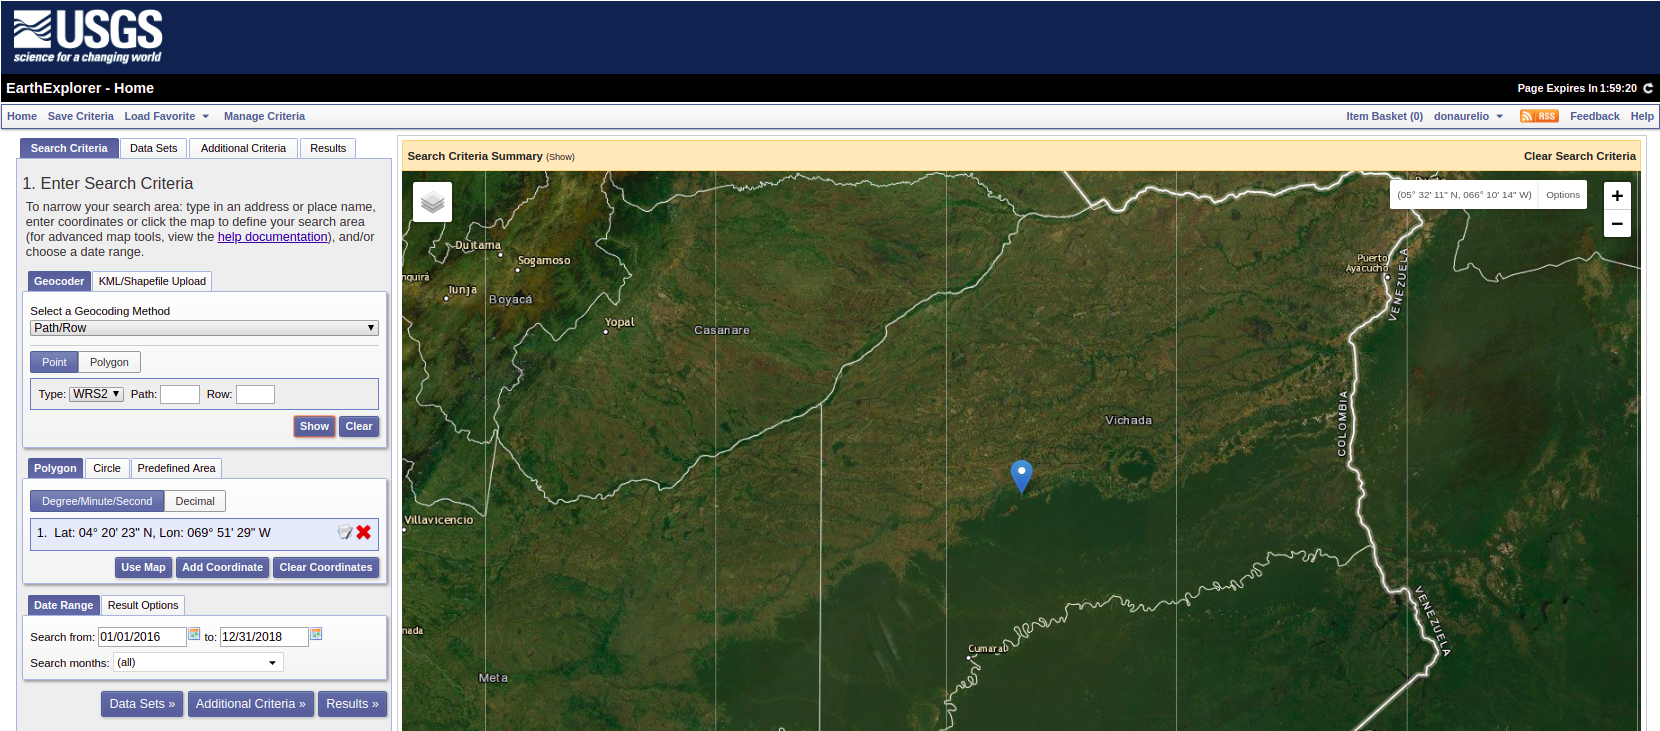
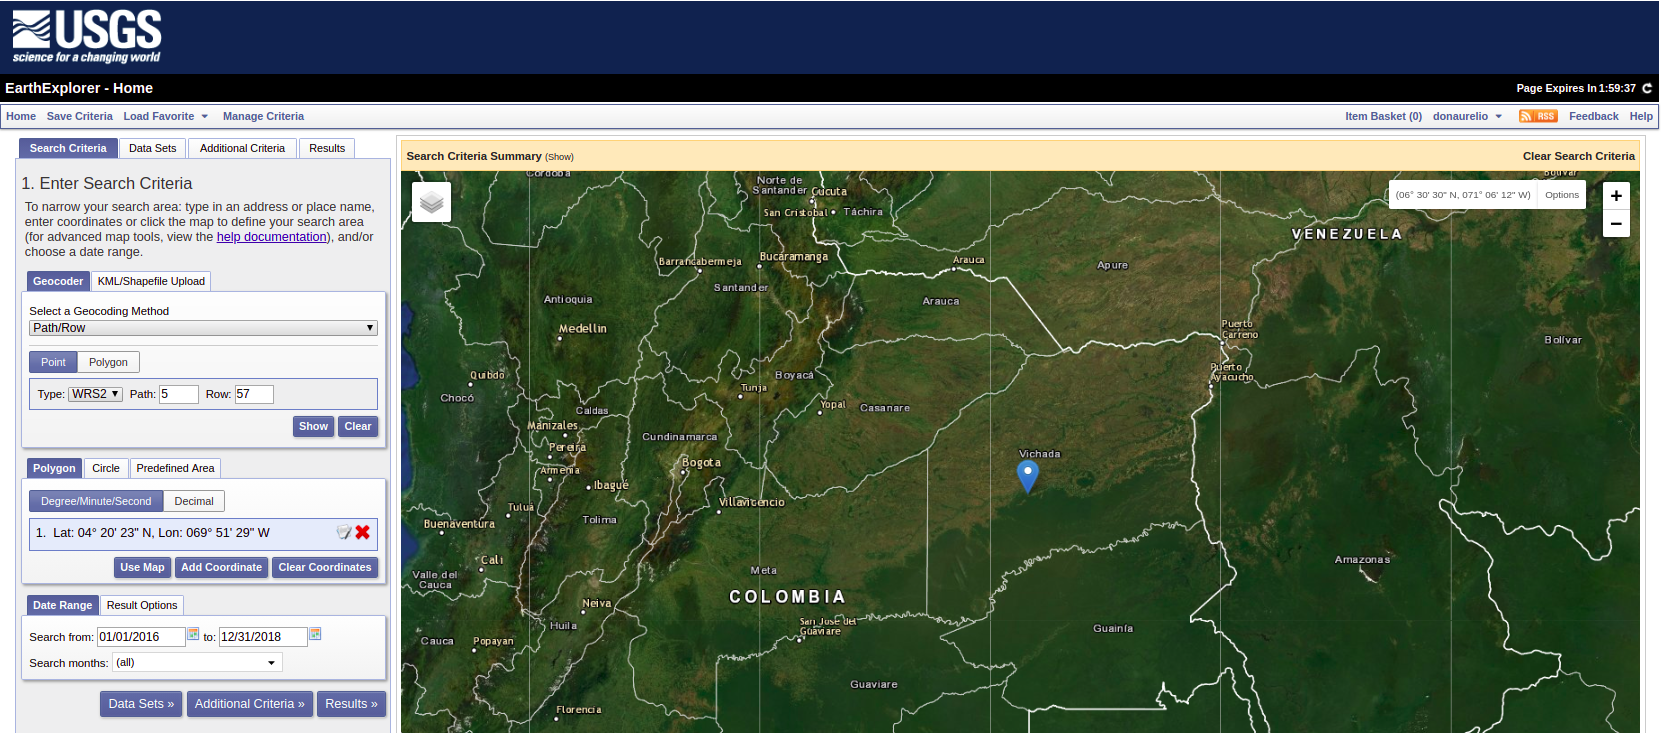
adding images

diff --git a/open-datacube/2.data_ingestion.md b/open-datacube/2.data_ingestion.md
@@ -6,9 +6,19 @@ Adding data (images) to the datacbe consists of telling the datacube where we ha
 
 Landsat satellites collect pictures of earth called scenes. Colombia is covered by aproximately 86 scenes of landsat as depicted bellow. The yellow squares represent the scenes and red squares are called tiles.
 
+![alt text](https://raw.githubusercontent.com/DonAurelio/manuals/master/open-datacube/img/colombia_scenes.png)
+
+Each yellow square is labeled using the **path-row** notation. This notation allow user reference any landsat scene specifiying the PATH and ROW numbers. We can obtain scenes based on this notation using the [EarthExplorer](https://earthexplorer.usgs.gov/), this viewer require you to be registered.
+
+
+![alt text](https://raw.githubusercontent.com/DonAurelio/manuals/master/open-datacube/img/ee_1.png)
+
 ![alt text](https://github.com/DonAurelio/manuals/blob/master/open-datacube/imgs/colombia_scenes.png)
 
-Each yellow square is labeled using the **path-row** notation. This notation allow user reference any landsat scene specifiying the PATH and ROW numbers. We can obtain scenes based on this notation using the [EarthExplorer](https://earthexplorer.usgs.gov/). This viewer require you to be registered. 
+![alt text](https://github.com/DonAurelio/manuals/blob/master/open-datacube/imgs/colombia_scenes.png)
+
+![alt text](https://github.com/DonAurelio/manuals/blob/master/open-datacube/imgs/colombia_scenes.png)
+
 
 
 # References
